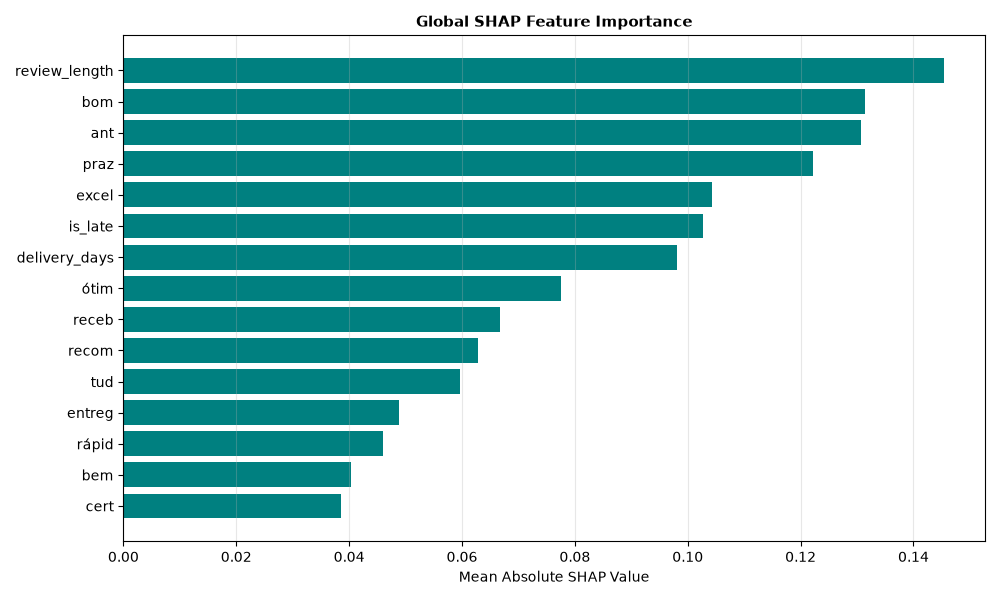
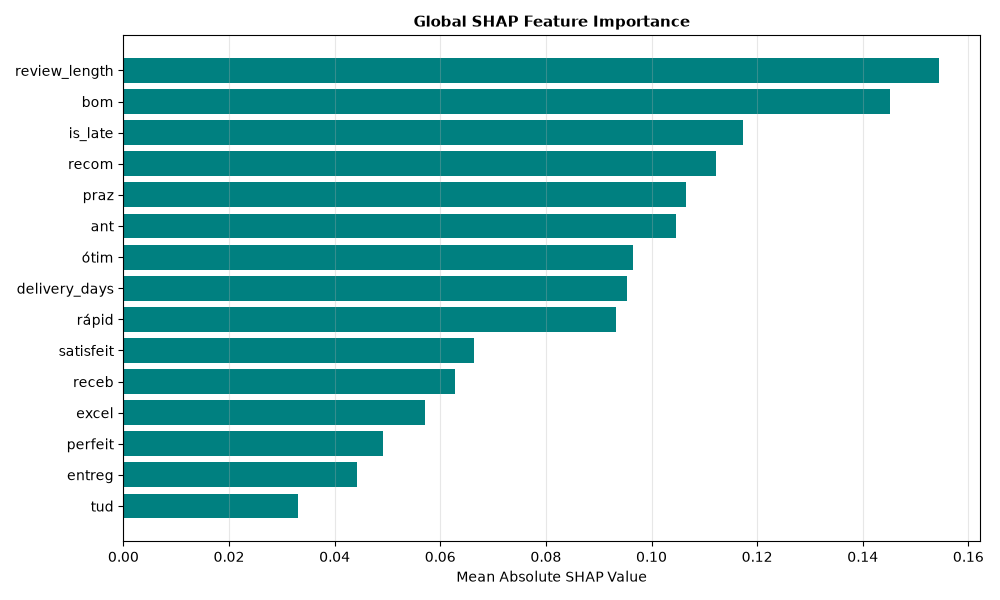
Optimize SHAP computation for deployment

diff --git a/src/models/sentiment_model.py b/src/models/sentiment_model.py
@@ -1,4 +1,5 @@
 import pandas as pd
+import numpy as np
 from scipy.sparse import csr_matrix, hstack
 from sklearn.model_selection import train_test_split
 from sklearn.preprocessing import RobustScaler
@@ -13,6 +14,7 @@ logger = logging.getLogger(__name__)
 RANDOM_STATE = 42
 NUMERIC_FEATURE_COLS = ["is_late", "review_length", "delivery_days"]
 SCALED_FEATURE_COLS = ["review_length", "delivery_days"]
+SHAP_SAMPLES = 100
 
 def _build_feature_matrix(nlp_df: pd.DataFrame, X_sparse: csr_matrix) -> tuple:
     """
@@ -55,7 +57,7 @@ def train_sentiment_model(nlp_df: pd.DataFrame, X_sparse: csr_matrix, max_iter =
 
     features, target = _build_feature_matrix(nlp_df,X_sparse)
 
-    # train test split, stratify for biasness proof
+    # Stratified  split to preserve class distribution
     X_train, X_test, y_train, y_test = train_test_split(features,target,test_size=0.2,random_state= RANDOM_STATE,shuffle=True, stratify=target)
 
     # Extracting columns index for scaled features
@@ -83,8 +85,16 @@ def train_sentiment_model(nlp_df: pd.DataFrame, X_sparse: csr_matrix, max_iter =
 
     # SHAP Explainer
     X_test_transformed = pipeline_logit.named_steps["preprocessor"].transform(X_test)
-    explainer = shap.LinearExplainer(pipeline_logit.named_steps["logistic"], X_test_transformed)
-    shap_values = explainer(X_test_transformed)
+
+    #SHAP Sample for steamlit limitage
+    sample_size = min(SHAP_SAMPLES, X_test_transformed.shape[0])
+    rng = np.random.RandomState(RANDOM_STATE)
+    indices = rng.choice(X_test_transformed.shape[0],size=sample_size,replace=False)
+    X_test_sample = X_test_transformed[indices]
+
+    # Explainer 
+    explainer = shap.LinearExplainer(pipeline_logit.named_steps["logistic"],X_test_sample)
+    shap_values = explainer(X_test_sample)
     logger.info(f"✅ Model trained, Test Accuracy: {accuracy:.4f}")
     logger.info(f"\n{classification_report(y_test, y_pred)}")
     logger.info(f"✅ SHAP values shape: {shap_values.shape}")
